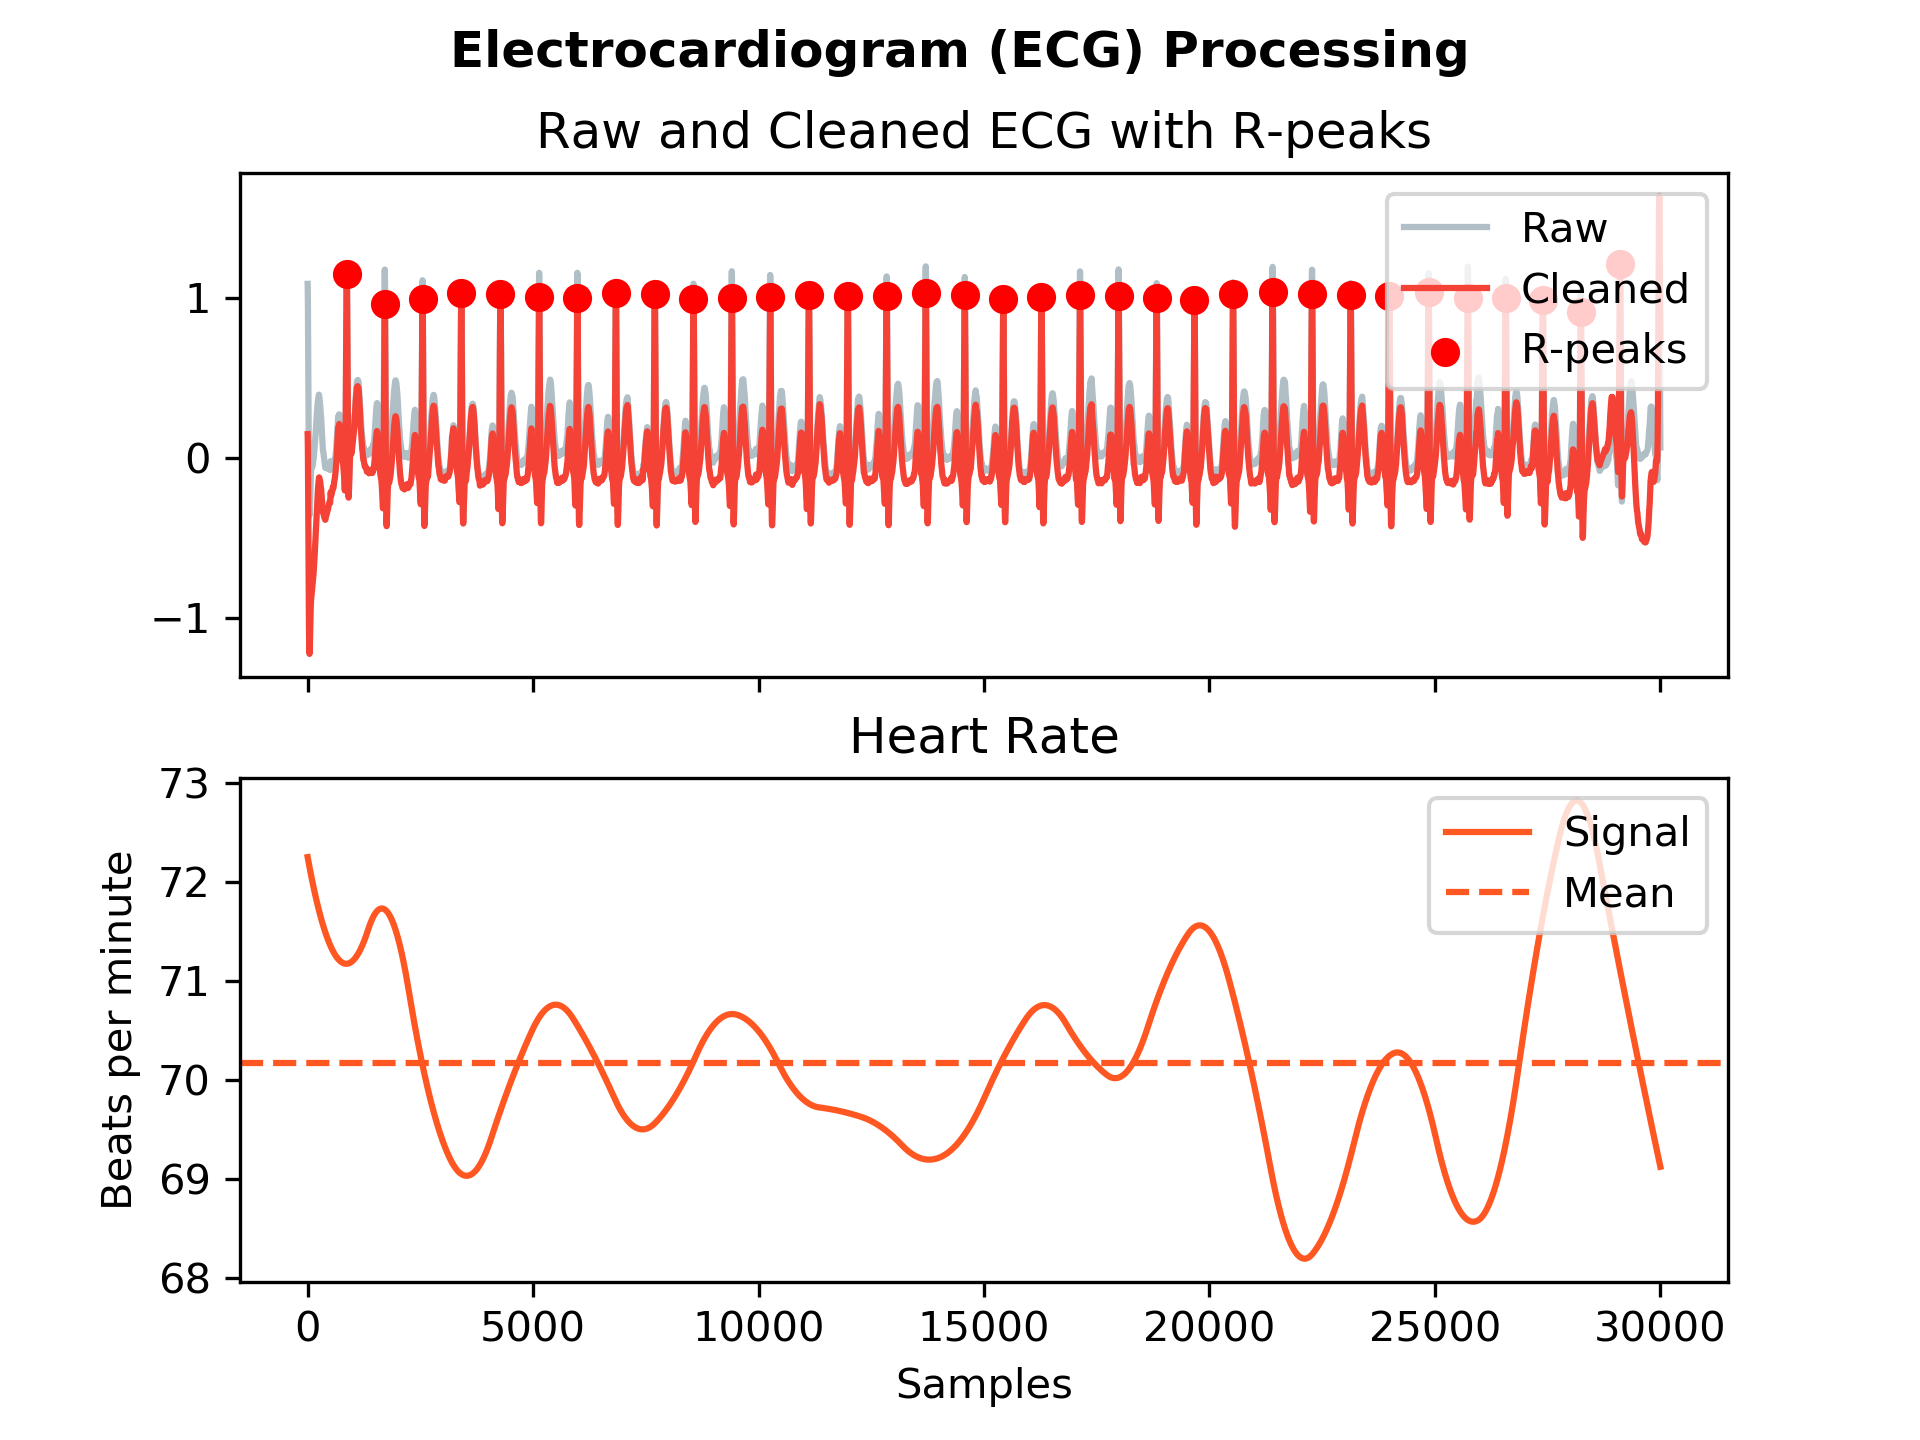
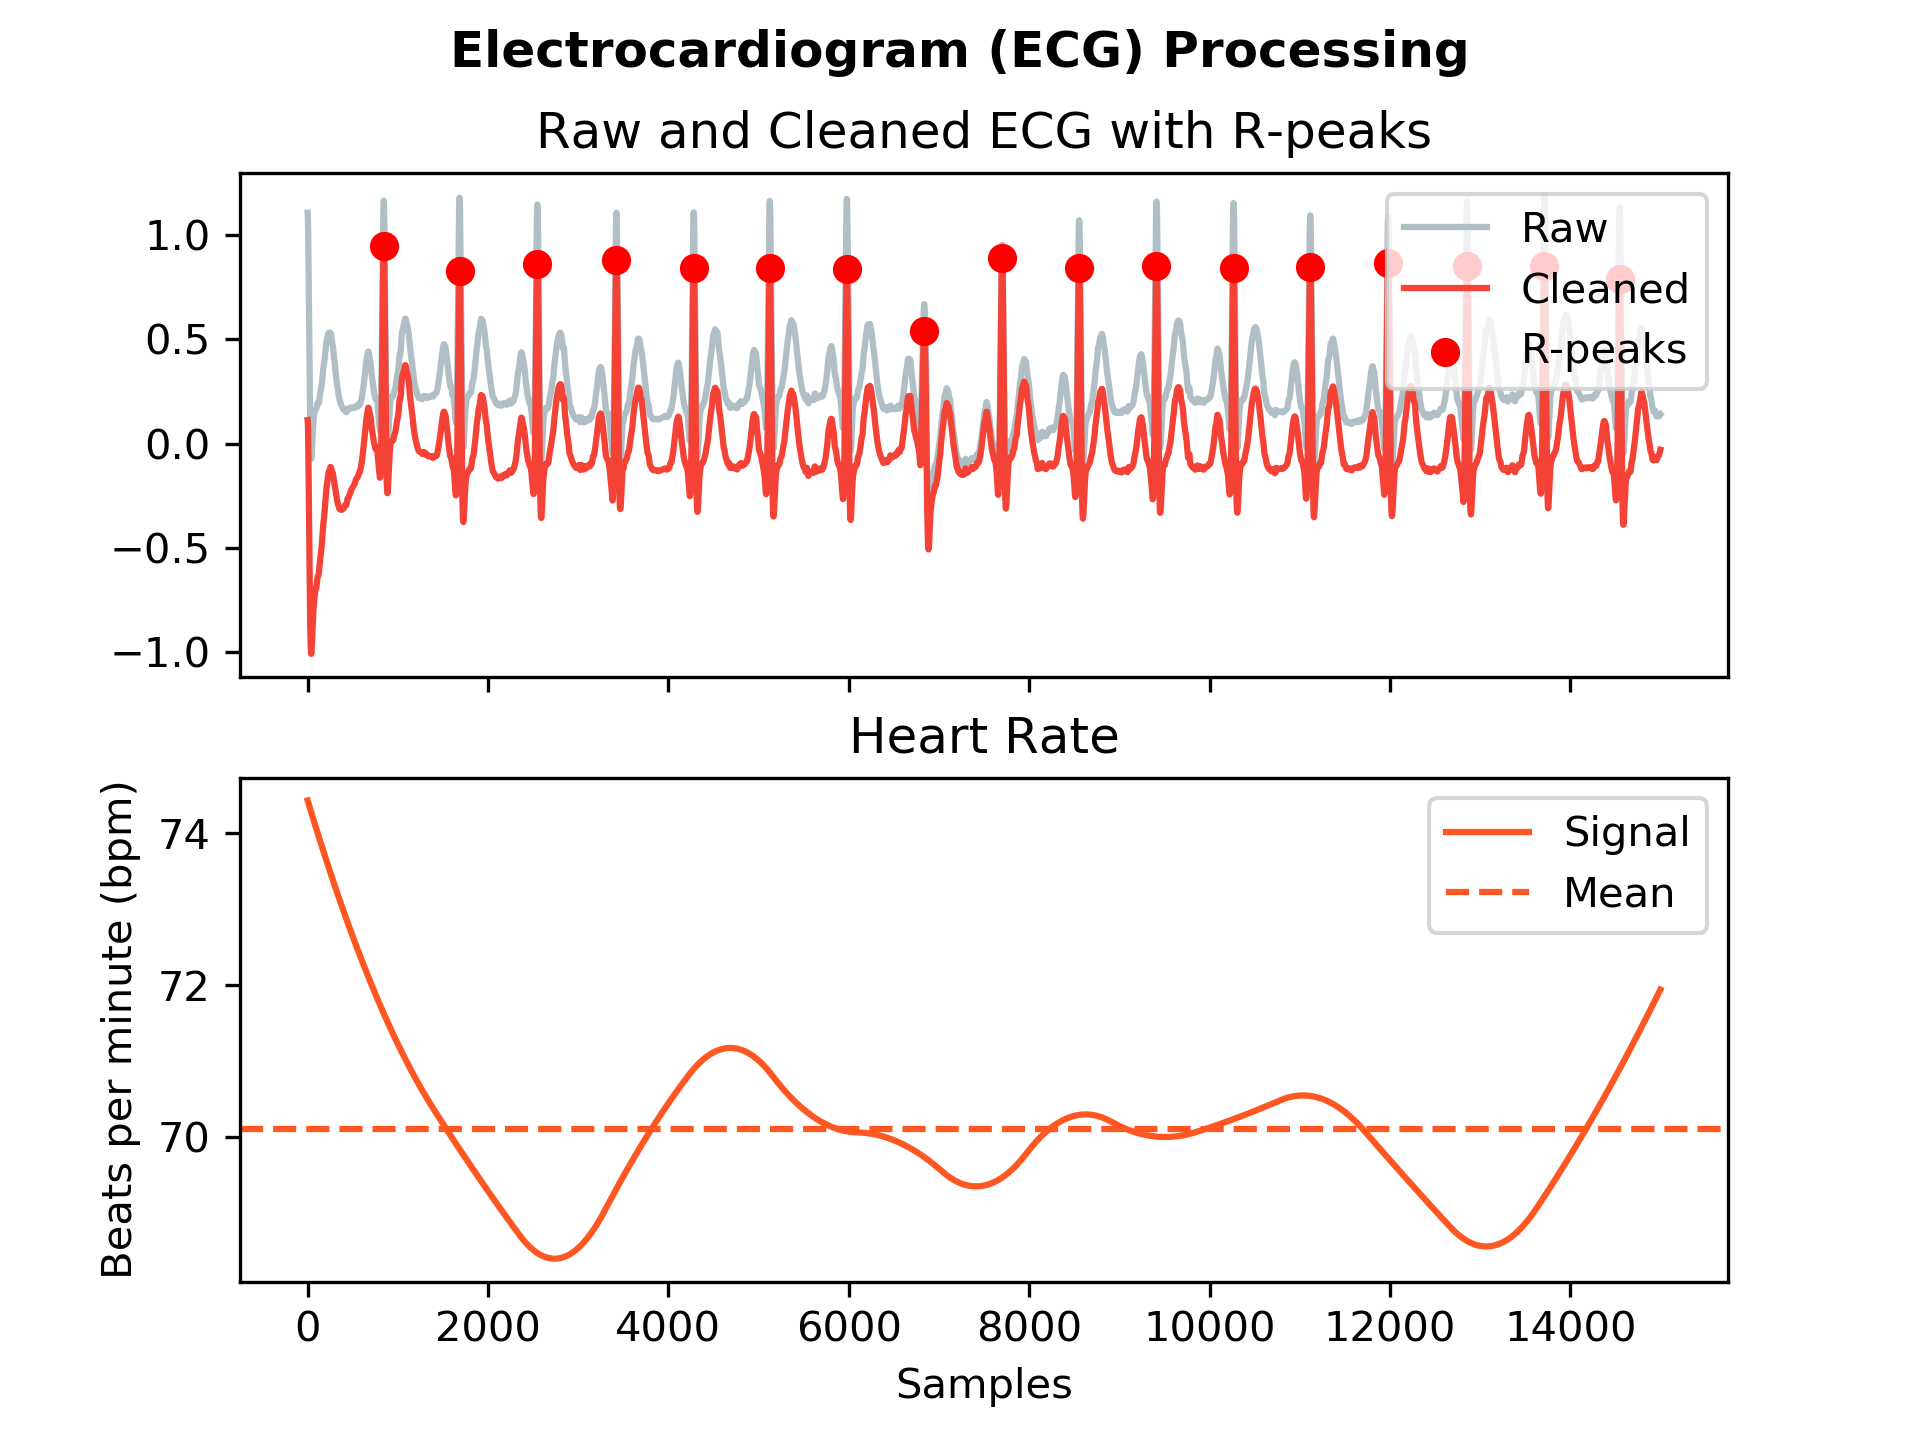
readme fig

diff --git a/docs/img/README_examples.py b/docs/img/README_examples.py
@@ -35,7 +35,7 @@ plot[0][0].get_figure().savefig("README_simulation.png", dpi=300)
 # =============================================================================
 
 # Generate 30 seconds of ECG signal
-ecg = nk.ecg_simulate(duration=30, heart_rate=70, random_state=333)
+ecg = nk.ecg_simulate(duration=15, heart_rate=70, random_state=333)
 
 # Process it
 signals, info = nk.ecg_process(ecg)
